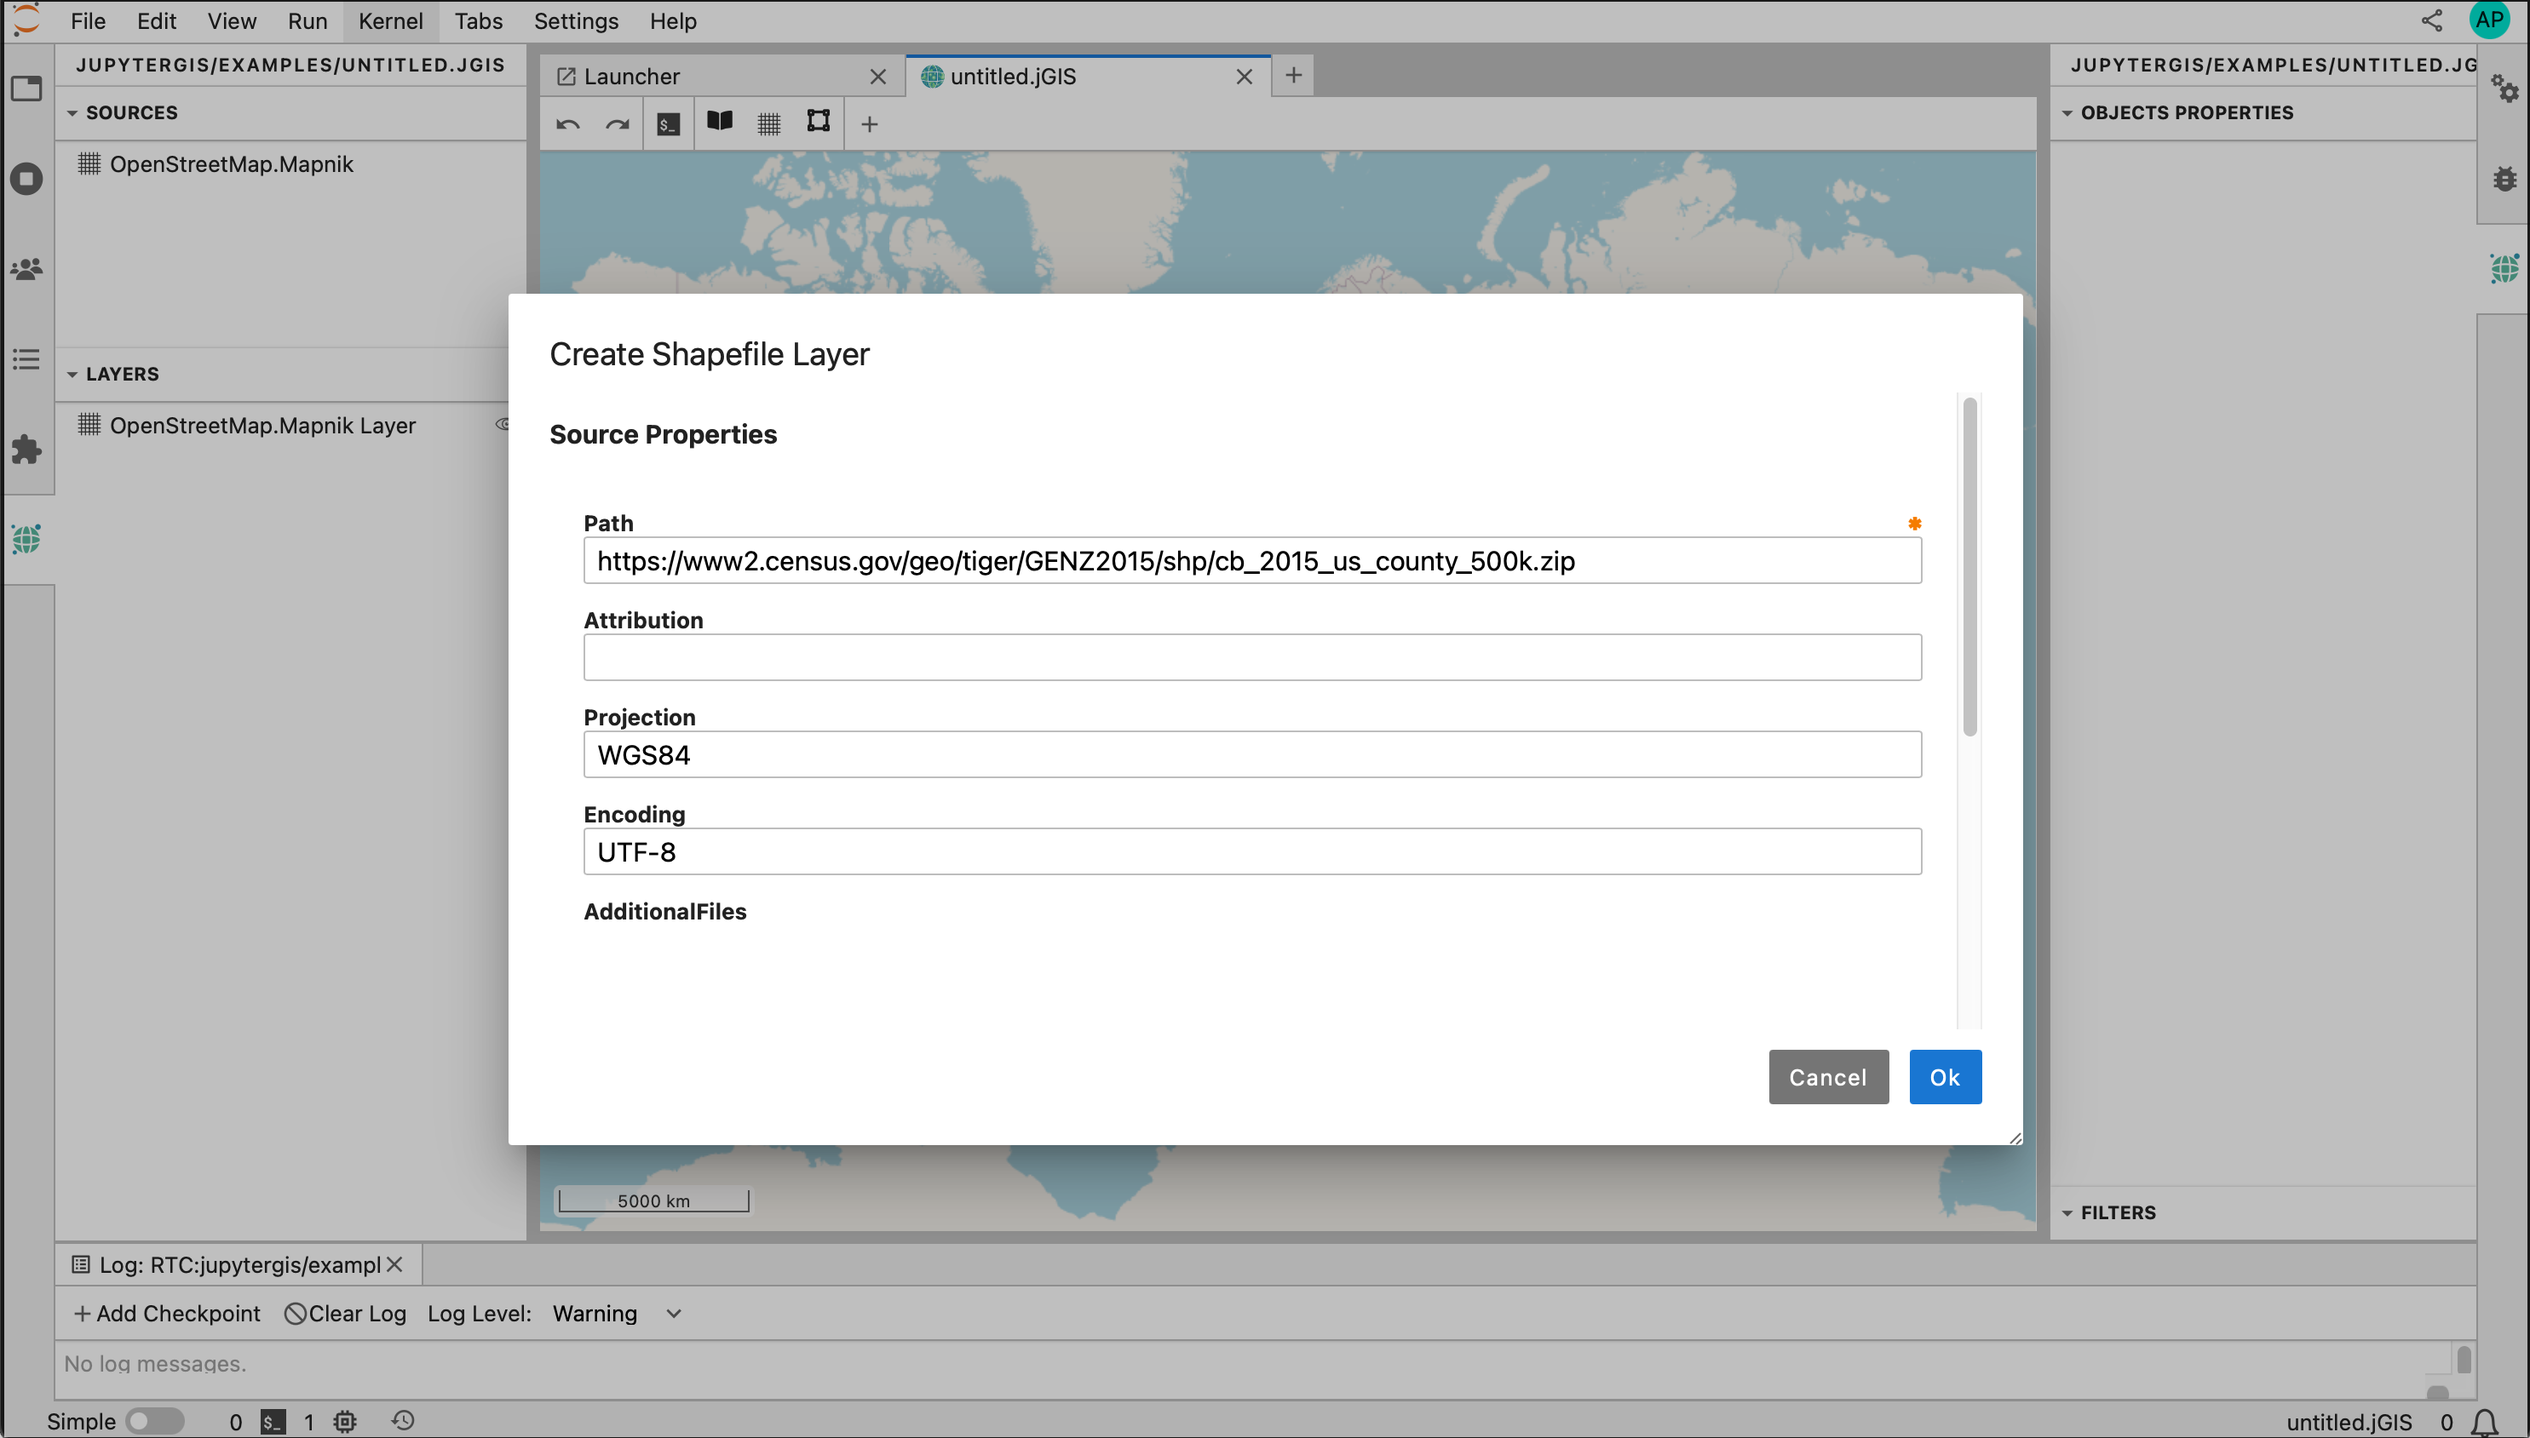
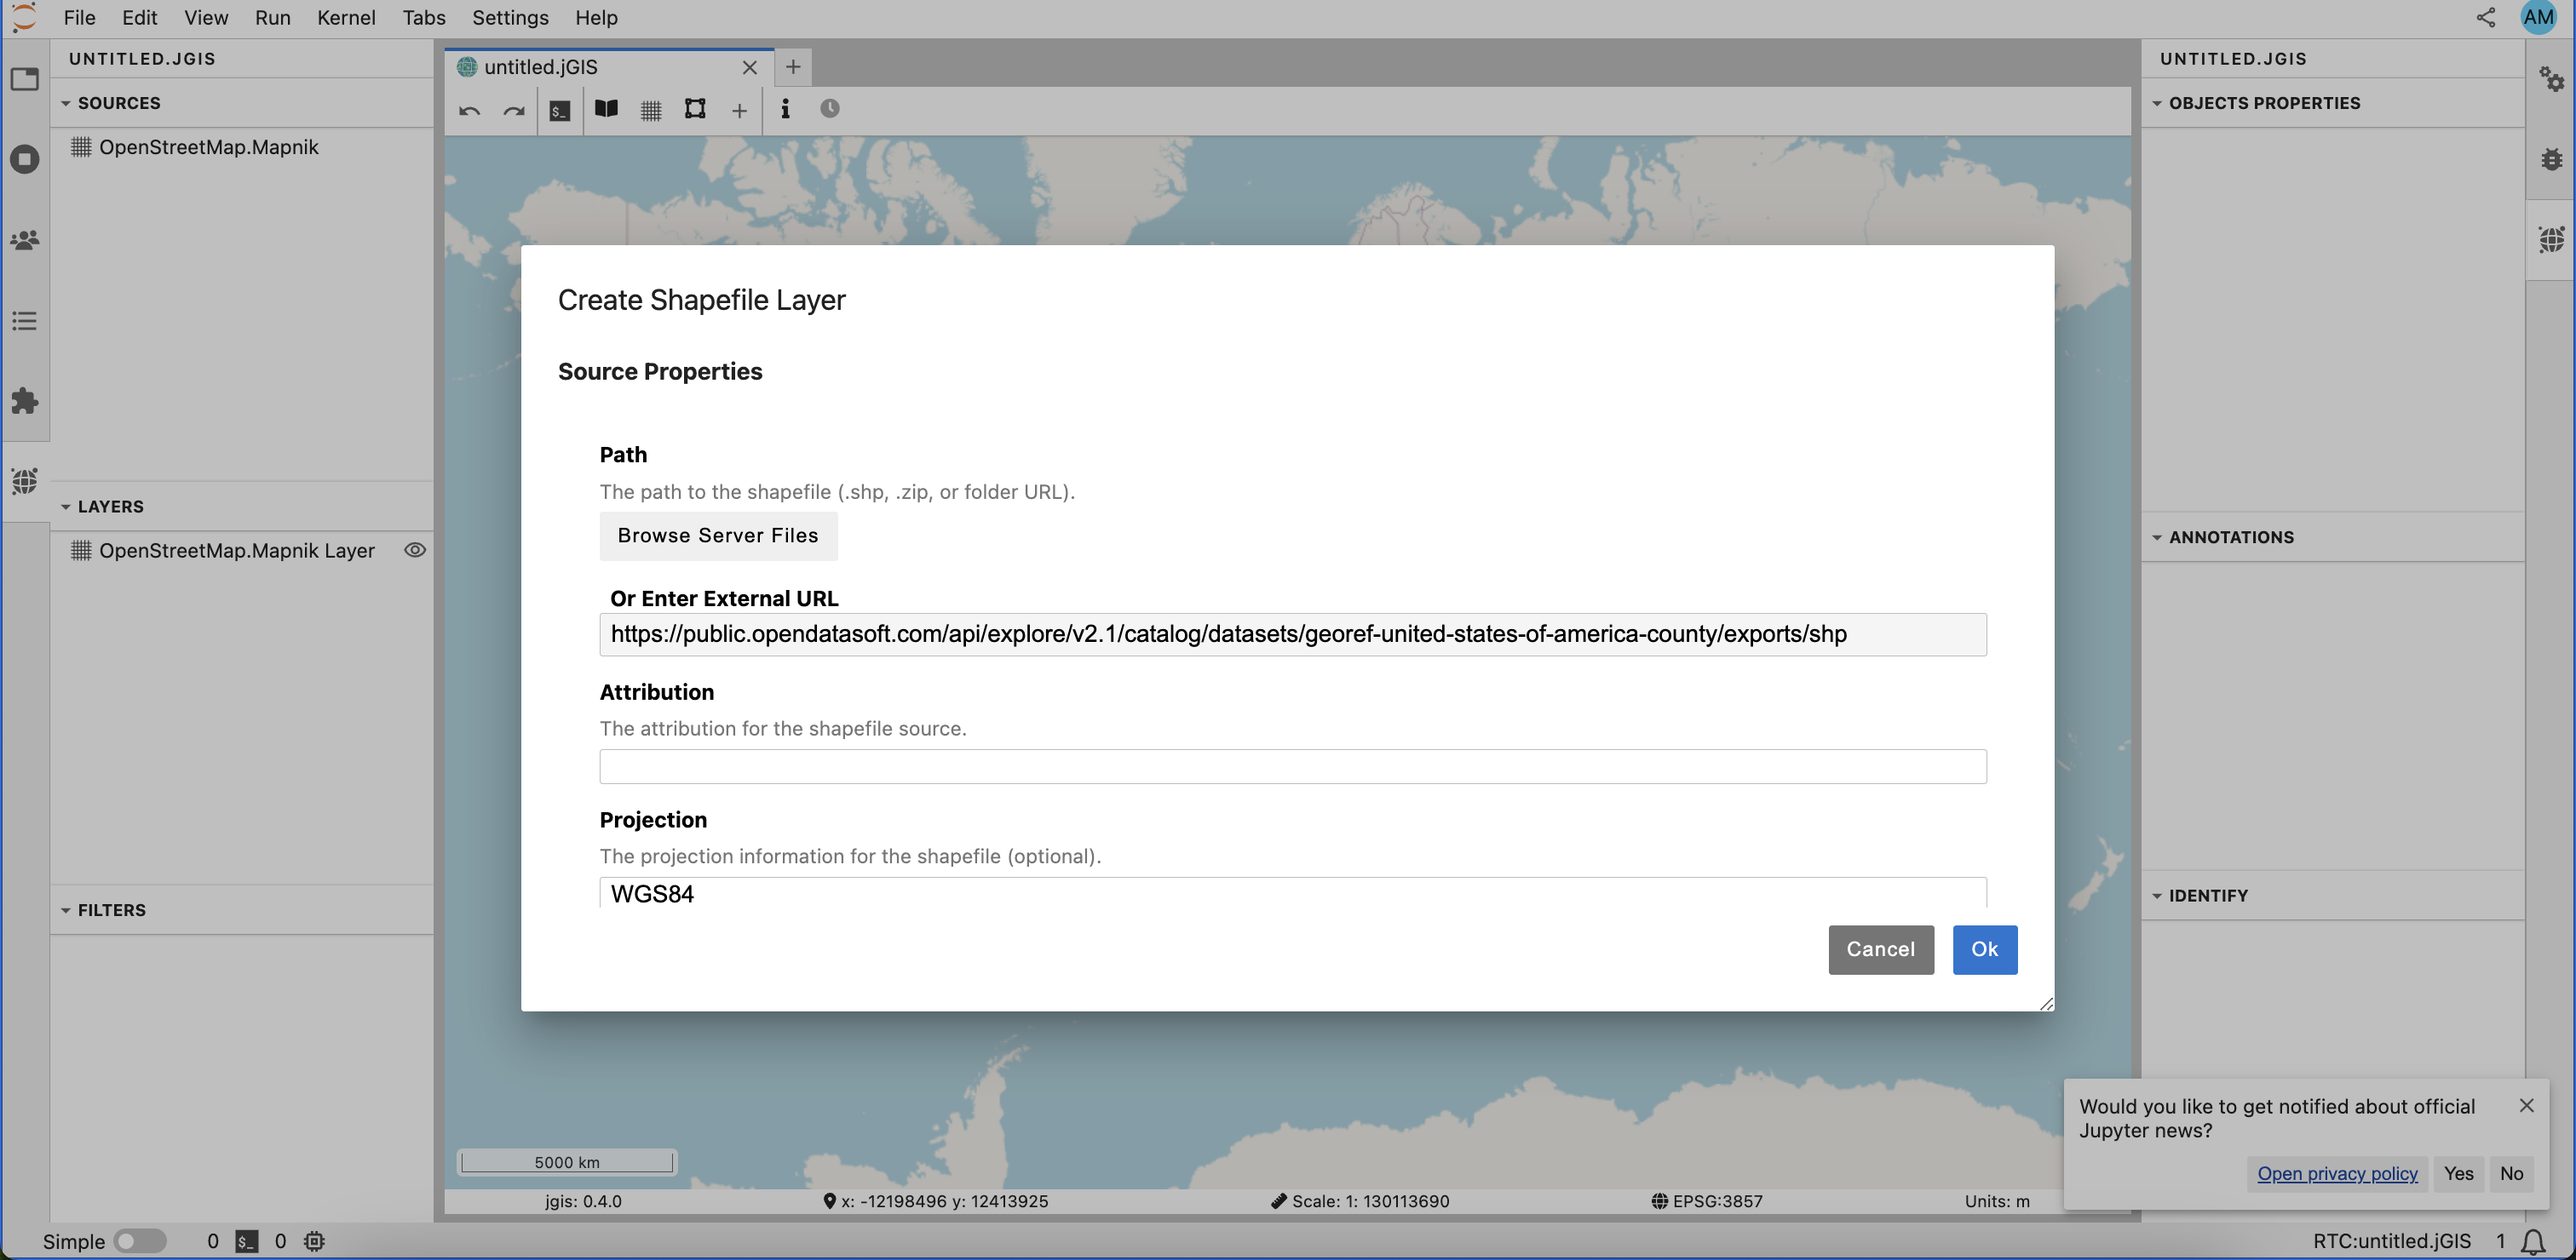
Update user guide tutorial (#475)
* Update link to the shapefile layer in tutorial

* Update images in user guide tutorial

Changed region(s): [[0.0, 0.0, 1.0, 1.0], [0.0, 0.7149, 0.062, 0.7459]]

diff --git a/docs/user_guide/tutorials/intro.md b/docs/user_guide/tutorials/intro.md
@@ -75,7 +75,7 @@ Follow along to add a vector layer available online.
    ![Open Layer Browser](../../assets/images/OpenLayerBrowser.png)
 3. Click on the **+** to add a user-defined layer and select "New Shapefile Layer" to add a new vector layer (stored as a shapefile).
    ![Add a Vector Layer](../../assets/images/addVectorLayer.png)
-4. Set the path of the new shapefile Layer to `https://public.opendatasoft.com/api/explore/v2.1/catalog/datasets/world-administrative-boundaries/exports/shp` and click **Ok**.
+4. Set the path of the new shapefile Layer to `https://public.opendatasoft.com/api/explore/v2.1/catalog/datasets/georef-united-states-of-america-county/exports/shp` and click **Ok**.
    ![Set Shapefile Layer](../../assets/images/CreateShapefileLayer.png)
 5. You will see the new Shapefile Layer on the map. When clicking on the **Custom Shapefile Layer** (see figure below), you will also see the details of the object properties on the right of the map. You can pan and zoom to focus on your area of interest, or automatically focus on your new data layer by right-clicking on the **Custom Shapefile Layer** and selecting "Zoom to Layer".
    ![View Shapefile Layer](../../assets/images/viewShapefileLayer.png)
